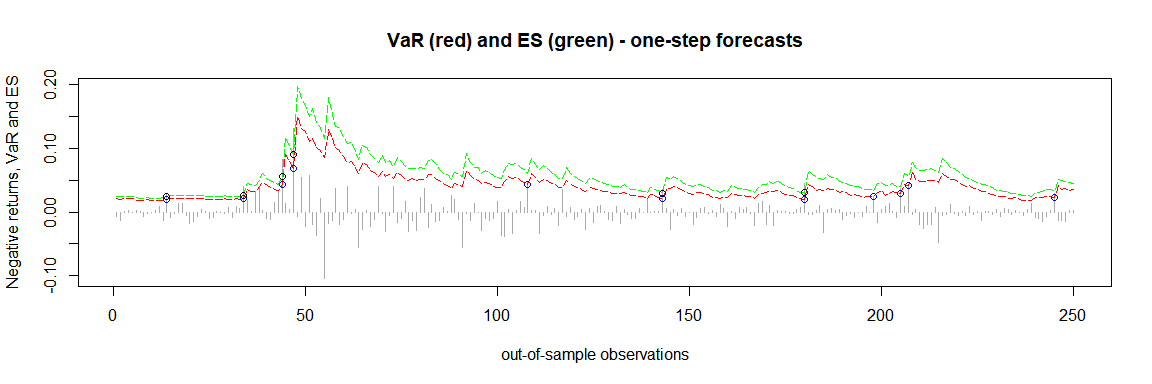
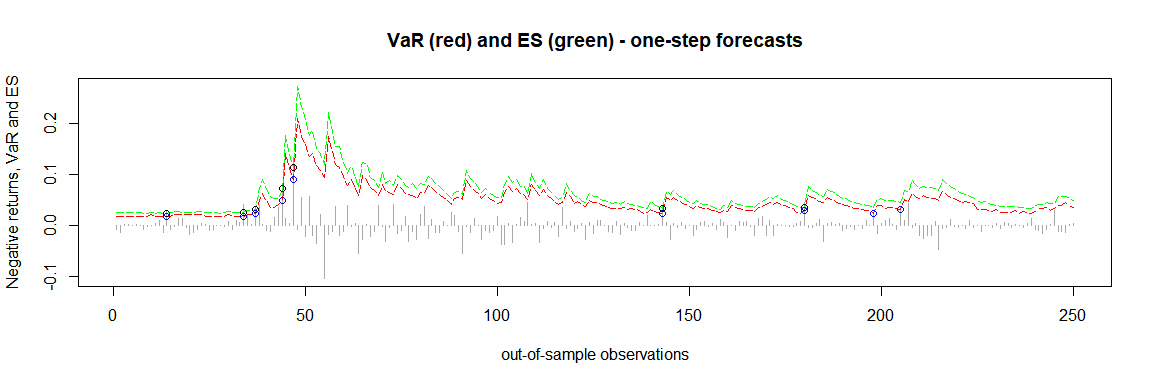
- Version 1.0.10

diff --git a/README.md b/README.md
@@ -43,7 +43,28 @@ returns <- diff(log(prices))
 
 ### Example 1 - plain historical simulation 
 results1 <- rollcast(x = returns, p = 0.975, method = 'plain', nout = 250,
-                     nwin = 500)
+                     nwin = 250)
+results1
+#> --------------------------------------------
+#> |              Specifications              |
+#> --------------------------------------------
+#>  Out-of-sample size:    250
+#>  Rolling window size:   250
+#>  Bootstrap sample size: N/A
+#>  Confidence level:      97.5 %
+#>  Method:                Plain
+#>  Model:                 EWMA
+#> --------------------------------------------
+#> |           Forecast performance           |
+#> --------------------------------------------
+#>  Out-of-sample losses exceeding VaR
+#>  
+#>  Number of breaches:    16
+#> --------------------------------------------
+#>  Out-of-sample losses exceeding ES
+#>  
+#>  Number of breaches:    7
+#> --------------------------------------------
 plot(results1)
 ```
 
@@ -52,7 +73,28 @@ plot(results1)
 ``` r
 ### Example 2 - age weighted historical simulation 
 results2 <- rollcast(x = returns, p = 0.975, method = 'age', nout = 250,
-                     nwin = 500)
+                     nwin = 250)
+results2
+#> --------------------------------------------
+#> |              Specifications              |
+#> --------------------------------------------
+#>  Out-of-sample size:    250
+#>  Rolling window size:   250
+#>  Bootstrap sample size: N/A
+#>  Confidence level:      97.5 %
+#>  Method:                Age Weighting
+#>  Model:                 EWMA
+#> --------------------------------------------
+#> |           Forecast performance           |
+#> --------------------------------------------
+#>  Out-of-sample losses exceeding VaR
+#>  
+#>  Number of breaches:    10
+#> --------------------------------------------
+#>  Out-of-sample losses exceeding ES
+#>  
+#>  Number of breaches:    5
+#> --------------------------------------------
 plot(results2)
 ```
 
@@ -61,7 +103,28 @@ plot(results2)
 ``` r
 ### Example 3 - volatility weighted historical simulation - EWMA
 results3 <- rollcast(x = returns, p = 0.975, model = 'EWMA',
-                     method = 'vwhs', nout = 250, nwin = 500)
+                     method = 'vwhs', nout = 250, nwin = 250)
+results3
+#> --------------------------------------------
+#> |              Specifications              |
+#> --------------------------------------------
+#>  Out-of-sample size:    250
+#>  Rolling window size:   250
+#>  Bootstrap sample size: N/A
+#>  Confidence level:      97.5 %
+#>  Method:                Volatility Weighting
+#>  Model:                 EWMA
+#> --------------------------------------------
+#> |           Forecast performance           |
+#> --------------------------------------------
+#>  Out-of-sample losses exceeding VaR
+#>  
+#>  Number of breaches:    9
+#> --------------------------------------------
+#>  Out-of-sample losses exceeding ES
+#>  
+#>  Number of breaches:    5
+#> --------------------------------------------
 plot(results3)
 ```
 
@@ -70,7 +133,28 @@ plot(results3)
 ``` r
 ### Example 4 - volatility weighted historical simulation - GARCH
 results4 <- rollcast(x = returns, p = 0.975, model = 'GARCH',
-                     method = 'vwhs', nout = 250, nwin = 500)
+                     method = 'vwhs', nout = 250, nwin = 250)
+results4
+#> --------------------------------------------
+#> |              Specifications              |
+#> --------------------------------------------
+#>  Out-of-sample size:    250
+#>  Rolling window size:   250
+#>  Bootstrap sample size: N/A
+#>  Confidence level:      97.5 %
+#>  Method:                Volatility Weighting
+#>  Model:                 sGARCH
+#> --------------------------------------------
+#> |           Forecast performance           |
+#> --------------------------------------------
+#>  Out-of-sample losses exceeding VaR
+#>  
+#>  Number of breaches:    9
+#> --------------------------------------------
+#>  Out-of-sample losses exceeding ES
+#>  
+#>  Number of breaches:    5
+#> --------------------------------------------
 plot(results4)
 ```
 
@@ -78,8 +162,30 @@ plot(results4)
 
 ``` r
 ### Example 5 - filtered historical simulation - EWMA
+set.seed(12345)
 results5 <- rollcast(x = returns, p = 0.975, model = 'EWMA',
-                     method = 'fhs', nout = 250, nwin = 500, nboot = 10000)
+                     method = 'fhs', nout = 250, nwin = 250, nboot = 10000)
+results5
+#> --------------------------------------------
+#> |              Specifications              |
+#> --------------------------------------------
+#>  Out-of-sample size:    250
+#>  Rolling window size:   250
+#>  Bootstrap sample size: 10000
+#>  Confidence level:      97.5 %
+#>  Method:                Filtered
+#>  Model:                 EWMA
+#> --------------------------------------------
+#> |           Forecast performance           |
+#> --------------------------------------------
+#>  Out-of-sample losses exceeding VaR
+#>  
+#>  Number of breaches:    8
+#> --------------------------------------------
+#>  Out-of-sample losses exceeding ES
+#>  
+#>  Number of breaches:    4
+#> --------------------------------------------
 plot(results5)
 ```
 
@@ -87,12 +193,34 @@ plot(results5)
 
 ``` r
 ### Example 6 - filtered historical simulation - GARCH
+set.seed(12345)
 results6 <- rollcast(x = returns, p = 0.975, model = 'GARCH',
-                     method = 'fhs', nout = 250, nwin = 500, nboot = 10000)
+                     method = 'fhs', nout = 250, nwin = 250, nboot = 10000)
+results6
+#> --------------------------------------------
+#> |              Specifications              |
+#> --------------------------------------------
+#>  Out-of-sample size:    250
+#>  Rolling window size:   250
+#>  Bootstrap sample size: 10000
+#>  Confidence level:      97.5 %
+#>  Method:                Filtered
+#>  Model:                 sGARCH
+#> --------------------------------------------
+#> |           Forecast performance           |
+#> --------------------------------------------
+#>  Out-of-sample losses exceeding VaR
+#>  
+#>  Number of breaches:    9
+#> --------------------------------------------
+#>  Out-of-sample losses exceeding ES
+#>  
+#>  Number of breaches:    7
+#> --------------------------------------------
 plot(results6)
 ```
 
 <img src="man/figures/README-unnamed-chunk-7-1.png" width="100%" />
 
-To further analyze these results one might apply the traffic light test
-to assess the performance of these methods.
+To further analyze these results one might apply backtesting to assess
+the performance of these methods.

diff --git a/NEWS.md b/NEWS.md
@@ -1,10 +1,14 @@
+# quarks 1.0.10
+
+- added a print method for 'quarks'
+
 # quarks 1.0.9
 
 - fixed a bug in 'hs.R'
 
 # quarks 1.0.8
 
-- corrected a typo which caused an error in 'vwhs.R' and 'fhs.R'
+- fixed a bug which caused an error in 'vwhs.R' and 'fhs.R'
 
 # quarks 1.0.7
 
@@ -39,7 +43,7 @@
 
 # quarks 1.0.2
 
-- fixed a minor mistake in 'hs.R'
+- fixed a minor bug in 'hs.R'
 - minor adjustments in the README were made
 
 # quarks 1.0.1

diff --git a/cran-comments.md b/cran-comments.md
@@ -1,10 +1,7 @@
-## Patch release (version 1.0.9)
+## Patch release (version 1.0.10)
 This is a patch release.
 
-- fixed a bug in 'hs.R' 
-
-
-Thank you very much for your efforts.
+- added a print method for package quarks 
 
 ## Test environments
 * local R installation, R 4.1.0
